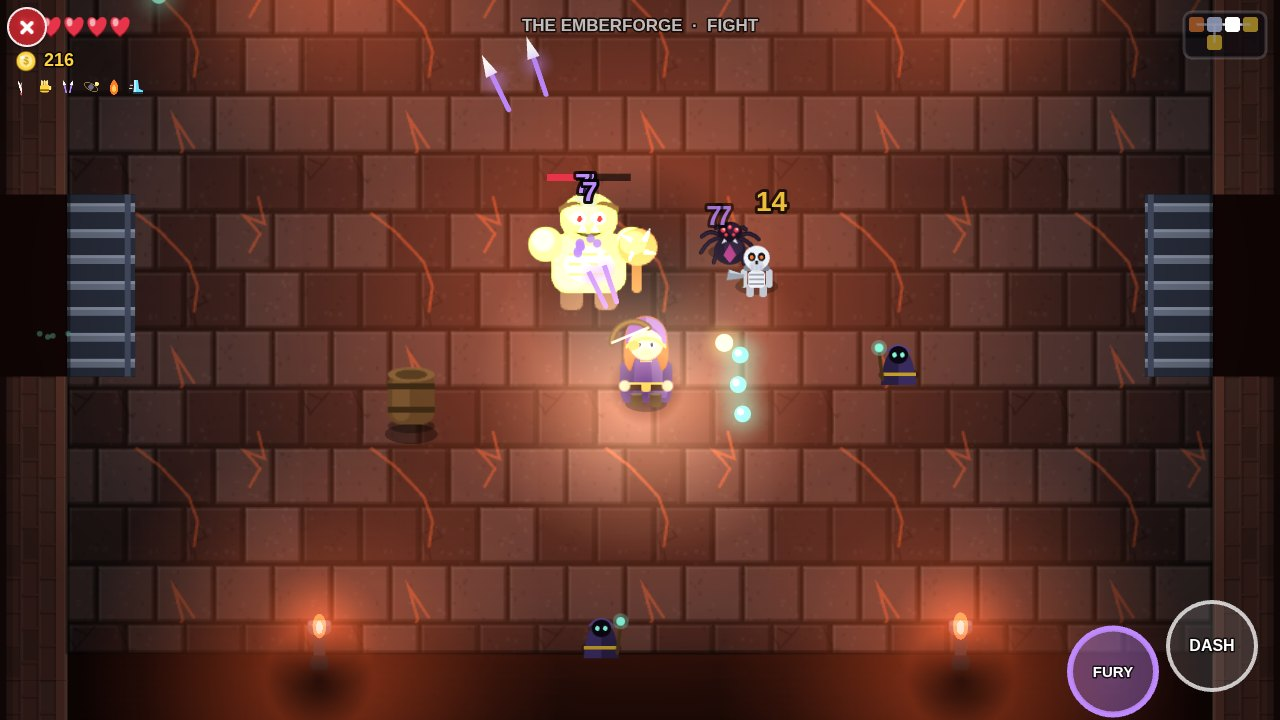
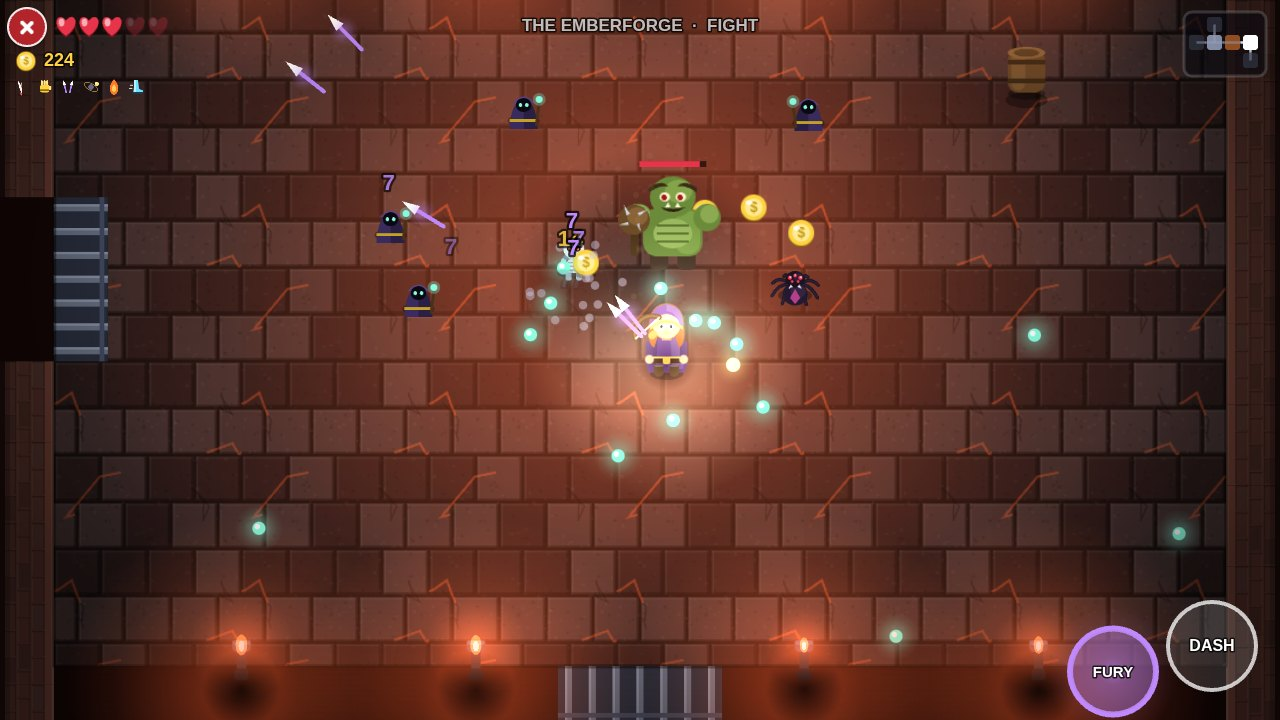
Dungeon Dash: bigger rooms, so the camera sits further back
The view was too close. The camera scale is worked out from the room, so
growing the room is what pulls it back - and because the room still fills the
screen there are no bars down the sides of a phone.

Rooms go from 780x500 to 1000x660, which is about seventy per cent more floor,
and on an iPad the scale drops from 1.39 to 1.09. The whole room still fits on
one screen on every iPad size; a phone in landscape scrolls a little, as it
did before.

Everything that was measured from the room follows it: the doorways are wider,
the ring painted on the floor of a special room scales, and there are eight
wall torches instead of four - each one dimmer, or the floor came out in
orange stripes. A little more furniture and a few more monsters per room, so
the extra space is not empty: density is still lower than it was.

The Bonelord went to forty-seven seconds in the larger arena, because he has
more room to charge away from you. He is the first boss anybody meets and he
should not be the longest fight in the game, so his health comes down from 560
to 410. The three bosses now take twenty-five, eighteen and thirty seconds.

Claude-Session: https://claude.ai/code/session_01866jXXs8pfArn3YPBdUtoa

diff --git a/Game13/index.html b/Game13/index.html
@@ -970,7 +970,7 @@ function bakeRelicIcons(){
 }
 
 // ---------------------------------------------------------------- content
-const ROOM_W=780,ROOM_H=500,WALL=46,DOORW=124,PRAD=15;
+const ROOM_W=1000,ROOM_H=660,WALL=46,DOORW=140,PRAD=15;
 const DIRS=[{n:"N",dx:0,dy:-1},{n:"E",dx:1,dy:0},{n:"S",dx:0,dy:1},{n:"W",dx:-1,dy:0}];
 const OPP={N:"S",S:"N",E:"W",W:"E"};
 
@@ -1037,7 +1037,7 @@ const FLOORS=[
   hpMul:2.5,spMul:1.16,name:"THE EMBERFORGE",sub:"He has been waiting a very long time."},
 ];
 const BOSSES={
- bonelord:{name:"THE BONELORD",sub:"Keeper of the Catacombs",hp:560, rad:76,art:"bonelord",col:"#ff7a2a"},
+ bonelord:{name:"THE BONELORD",sub:"Keeper of the Catacombs",hp:410, rad:76,art:"bonelord",col:"#ff7a2a"},
  widow:   {name:"THE WIDOWMOTHER",sub:"Queen of the Hollow",  hp:1050,rad:76,art:"widow",   col:"#ff3a52"},
  lich:    {name:"THE LICH LORD",  sub:"He who kept the key",   hp:1600,rad:68,art:"lich",    col:"#38ff9e"},
 };
@@ -1176,7 +1176,7 @@ function populate(room){
    if(ok)return{x,y}}
   return null};
  // scenery
- const nProps=room.type==="boss"?rint(0,2):rint(1,4);
+ const nProps=room.type==="boss"?rint(1,3):rint(2,5);
  for(let i=0;i<nProps;i++){const s=spot(90,88);if(!s)continue;
   const kind=Math.random()<0.45?"pillar":"barrel";
   room.obst.push({x:s.x,y:s.y,r:kind==="pillar"?24:19,kind,
@@ -1188,7 +1188,7 @@ function populate(room){
  }else if(room.type!=="start"&&room.type!=="shop"&&room.type!=="shrine"&&room.type!=="treasure"){
   // fight rooms, elite rooms and the vault all come with company
   const elite=room.type==="elite";
-  const count=elite?rint(4,6):Math.min(13,rint(4,6)+Math.floor(G.floorIdx*1.4)+Math.floor(room.dist*0.5));
+  const count=elite?rint(5,7):Math.min(16,rint(5,8)+Math.floor(G.floorIdx*1.6)+Math.floor(room.dist*0.6));
   // deal from a shuffled deck rather than rolling each one, so a room is
   // never three of the same thing
   const deck=[];while(deck.length<count)deck.push.apply(deck,shuffle(F.mix.slice()));
@@ -1790,7 +1790,7 @@ function takeRelic(r){
 
 // ---------------------------------------------------------------- camera
 function camUpdate(dt){
- const sc=clamp(Math.max(W/(ROOM_W+WALL*2),H/(ROOM_H+WALL*2)),0.75,1.8);
+ const sc=clamp(Math.max(W/(ROOM_W+WALL*2),H/(ROOM_H+WALL*2)),0.62,1.5);
  CAM.sc=sc;
  const hw=W/2/sc,hh=H/2/sc;
  const fitX=hw>=ROOM_W/2+WALL,fitY=hh>=ROOM_H/2+WALL;
@@ -1807,8 +1807,9 @@ function bakeVignette(){
   gr.addColorStop(1,"rgba(0,0,0,0.46)");g.fillStyle=gr;g.fillRect(0,0,w,w)})}
 // ---------------------------------------------------------------- drawing
 function torchSpots(){ // four brackets on the walls, away from the doorways
- return[{x:ROOM_W*0.22,y:-2},{x:ROOM_W*0.78,y:-2},
-        {x:ROOM_W*0.22,y:ROOM_H+2},{x:ROOM_W*0.78,y:ROOM_H+2}]}
+ return[{x:ROOM_W*0.16,y:-2},{x:ROOM_W*0.36,y:-2},{x:ROOM_W*0.64,y:-2},{x:ROOM_W*0.84,y:-2},
+        {x:ROOM_W*0.16,y:ROOM_H+2},{x:ROOM_W*0.36,y:ROOM_H+2},
+        {x:ROOM_W*0.64,y:ROOM_H+2},{x:ROOM_W*0.84,y:ROOM_H+2}]}
 function drawWalls(th){
  const sp=ART.prop["wall_"+th.id],segW=Math.round(96*(WALL/64));
  const gaps={N:[],S:[],E:[],W:[]};
@@ -2035,10 +2036,11 @@ function drawRoom(dt){
  // room markings
  if(r.type==="shrine"||r.type==="treasure"||r.type==="vault"||r.type==="boss"){
   cx.save();cx.globalAlpha=0.22;cx.strokeStyle=th.torch;cx.lineWidth=3;
-  cx.beginPath();cx.arc(ROOM_W/2,ROOM_H/2,140,0,TAU);cx.stroke();
-  cx.beginPath();cx.arc(ROOM_W/2,ROOM_H/2,120,0,TAU);cx.stroke();
+  const RR=ROOM_H*0.28;
+  cx.beginPath();cx.arc(ROOM_W/2,ROOM_H/2,RR,0,TAU);cx.stroke();
+  cx.beginPath();cx.arc(ROOM_W/2,ROOM_H/2,RR-20,0,TAU);cx.stroke();
   for(let i=0;i<8;i++){const a=i*TAU/8+T*0.1;
-   cx.beginPath();cx.arc(ROOM_W/2+Math.cos(a)*130,ROOM_H/2+Math.sin(a)*130,7,0,TAU);cx.stroke()}
+   cx.beginPath();cx.arc(ROOM_W/2+Math.cos(a)*(RR-10),ROOM_H/2+Math.sin(a)*(RR-10),7,0,TAU);cx.stroke()}
   cx.restore()}
  drawWalls(th);
  drawDoors(th);
@@ -2107,7 +2109,7 @@ function drawRoom(dt){
  if(FX){cx.save();cx.globalAlpha=0.92;
   cx.drawImage(ART.vig,-WALL,-WALL,ROOM_W+WALL*2,ROOM_H+WALL*2);cx.restore();
   cx.save();cx.globalCompositeOperation="lighter";
-  for(const t of fl)glow(t.x,t.y+16,165,hexA(th.torch,0.038));
+  for(const t of fl)glow(t.x,t.y+18,150,hexA(th.torch,0.026));
   glow(G.p.x,G.p.y,118,hexA("#ffe6bc",0.024));
   cx.restore()}
 }

diff --git a/docs/dungeon-dash/index.html b/docs/dungeon-dash/index.html
@@ -970,7 +970,7 @@ function bakeRelicIcons(){
 }
 
 // ---------------------------------------------------------------- content
-const ROOM_W=780,ROOM_H=500,WALL=46,DOORW=124,PRAD=15;
+const ROOM_W=1000,ROOM_H=660,WALL=46,DOORW=140,PRAD=15;
 const DIRS=[{n:"N",dx:0,dy:-1},{n:"E",dx:1,dy:0},{n:"S",dx:0,dy:1},{n:"W",dx:-1,dy:0}];
 const OPP={N:"S",S:"N",E:"W",W:"E"};
 
@@ -1037,7 +1037,7 @@ const FLOORS=[
   hpMul:2.5,spMul:1.16,name:"THE EMBERFORGE",sub:"He has been waiting a very long time."},
 ];
 const BOSSES={
- bonelord:{name:"THE BONELORD",sub:"Keeper of the Catacombs",hp:560, rad:76,art:"bonelord",col:"#ff7a2a"},
+ bonelord:{name:"THE BONELORD",sub:"Keeper of the Catacombs",hp:410, rad:76,art:"bonelord",col:"#ff7a2a"},
  widow:   {name:"THE WIDOWMOTHER",sub:"Queen of the Hollow",  hp:1050,rad:76,art:"widow",   col:"#ff3a52"},
  lich:    {name:"THE LICH LORD",  sub:"He who kept the key",   hp:1600,rad:68,art:"lich",    col:"#38ff9e"},
 };
@@ -1176,7 +1176,7 @@ function populate(room){
    if(ok)return{x,y}}
   return null};
  // scenery
- const nProps=room.type==="boss"?rint(0,2):rint(1,4);
+ const nProps=room.type==="boss"?rint(1,3):rint(2,5);
  for(let i=0;i<nProps;i++){const s=spot(90,88);if(!s)continue;
   const kind=Math.random()<0.45?"pillar":"barrel";
   room.obst.push({x:s.x,y:s.y,r:kind==="pillar"?24:19,kind,
@@ -1188,7 +1188,7 @@ function populate(room){
  }else if(room.type!=="start"&&room.type!=="shop"&&room.type!=="shrine"&&room.type!=="treasure"){
   // fight rooms, elite rooms and the vault all come with company
   const elite=room.type==="elite";
-  const count=elite?rint(4,6):Math.min(13,rint(4,6)+Math.floor(G.floorIdx*1.4)+Math.floor(room.dist*0.5));
+  const count=elite?rint(5,7):Math.min(16,rint(5,8)+Math.floor(G.floorIdx*1.6)+Math.floor(room.dist*0.6));
   // deal from a shuffled deck rather than rolling each one, so a room is
   // never three of the same thing
   const deck=[];while(deck.length<count)deck.push.apply(deck,shuffle(F.mix.slice()));
@@ -1790,7 +1790,7 @@ function takeRelic(r){
 
 // ---------------------------------------------------------------- camera
 function camUpdate(dt){
- const sc=clamp(Math.max(W/(ROOM_W+WALL*2),H/(ROOM_H+WALL*2)),0.75,1.8);
+ const sc=clamp(Math.max(W/(ROOM_W+WALL*2),H/(ROOM_H+WALL*2)),0.62,1.5);
  CAM.sc=sc;
  const hw=W/2/sc,hh=H/2/sc;
  const fitX=hw>=ROOM_W/2+WALL,fitY=hh>=ROOM_H/2+WALL;
@@ -1807,8 +1807,9 @@ function bakeVignette(){
   gr.addColorStop(1,"rgba(0,0,0,0.46)");g.fillStyle=gr;g.fillRect(0,0,w,w)})}
 // ---------------------------------------------------------------- drawing
 function torchSpots(){ // four brackets on the walls, away from the doorways
- return[{x:ROOM_W*0.22,y:-2},{x:ROOM_W*0.78,y:-2},
-        {x:ROOM_W*0.22,y:ROOM_H+2},{x:ROOM_W*0.78,y:ROOM_H+2}]}
+ return[{x:ROOM_W*0.16,y:-2},{x:ROOM_W*0.36,y:-2},{x:ROOM_W*0.64,y:-2},{x:ROOM_W*0.84,y:-2},
+        {x:ROOM_W*0.16,y:ROOM_H+2},{x:ROOM_W*0.36,y:ROOM_H+2},
+        {x:ROOM_W*0.64,y:ROOM_H+2},{x:ROOM_W*0.84,y:ROOM_H+2}]}
 function drawWalls(th){
  const sp=ART.prop["wall_"+th.id],segW=Math.round(96*(WALL/64));
  const gaps={N:[],S:[],E:[],W:[]};
@@ -2035,10 +2036,11 @@ function drawRoom(dt){
  // room markings
  if(r.type==="shrine"||r.type==="treasure"||r.type==="vault"||r.type==="boss"){
   cx.save();cx.globalAlpha=0.22;cx.strokeStyle=th.torch;cx.lineWidth=3;
-  cx.beginPath();cx.arc(ROOM_W/2,ROOM_H/2,140,0,TAU);cx.stroke();
-  cx.beginPath();cx.arc(ROOM_W/2,ROOM_H/2,120,0,TAU);cx.stroke();
+  const RR=ROOM_H*0.28;
+  cx.beginPath();cx.arc(ROOM_W/2,ROOM_H/2,RR,0,TAU);cx.stroke();
+  cx.beginPath();cx.arc(ROOM_W/2,ROOM_H/2,RR-20,0,TAU);cx.stroke();
   for(let i=0;i<8;i++){const a=i*TAU/8+T*0.1;
-   cx.beginPath();cx.arc(ROOM_W/2+Math.cos(a)*130,ROOM_H/2+Math.sin(a)*130,7,0,TAU);cx.stroke()}
+   cx.beginPath();cx.arc(ROOM_W/2+Math.cos(a)*(RR-10),ROOM_H/2+Math.sin(a)*(RR-10),7,0,TAU);cx.stroke()}
   cx.restore()}
  drawWalls(th);
  drawDoors(th);
@@ -2107,7 +2109,7 @@ function drawRoom(dt){
  if(FX){cx.save();cx.globalAlpha=0.92;
   cx.drawImage(ART.vig,-WALL,-WALL,ROOM_W+WALL*2,ROOM_H+WALL*2);cx.restore();
   cx.save();cx.globalCompositeOperation="lighter";
-  for(const t of fl)glow(t.x,t.y+16,165,hexA(th.torch,0.038));
+  for(const t of fl)glow(t.x,t.y+18,150,hexA(th.torch,0.026));
   glow(G.p.x,G.p.y,118,hexA("#ffe6bc",0.024));
   cx.restore()}
 }
